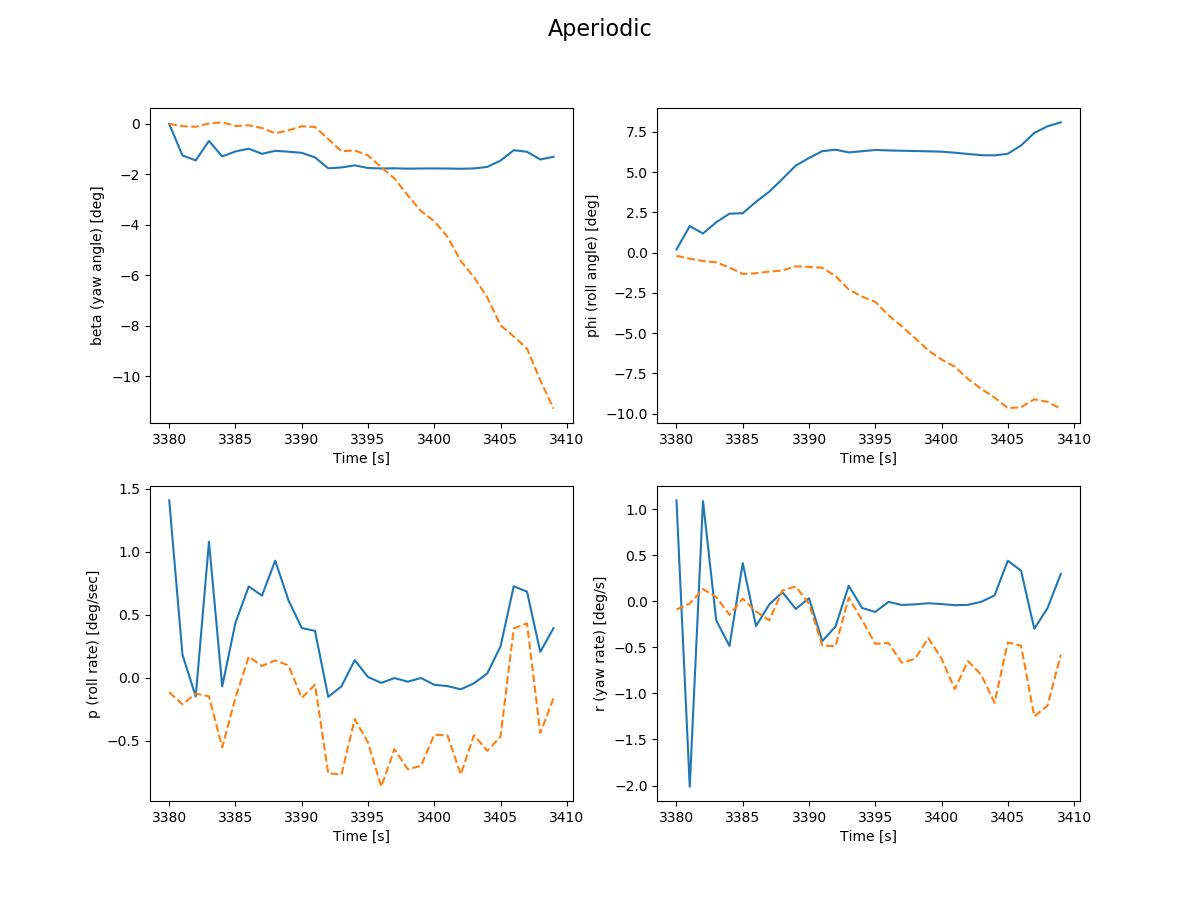
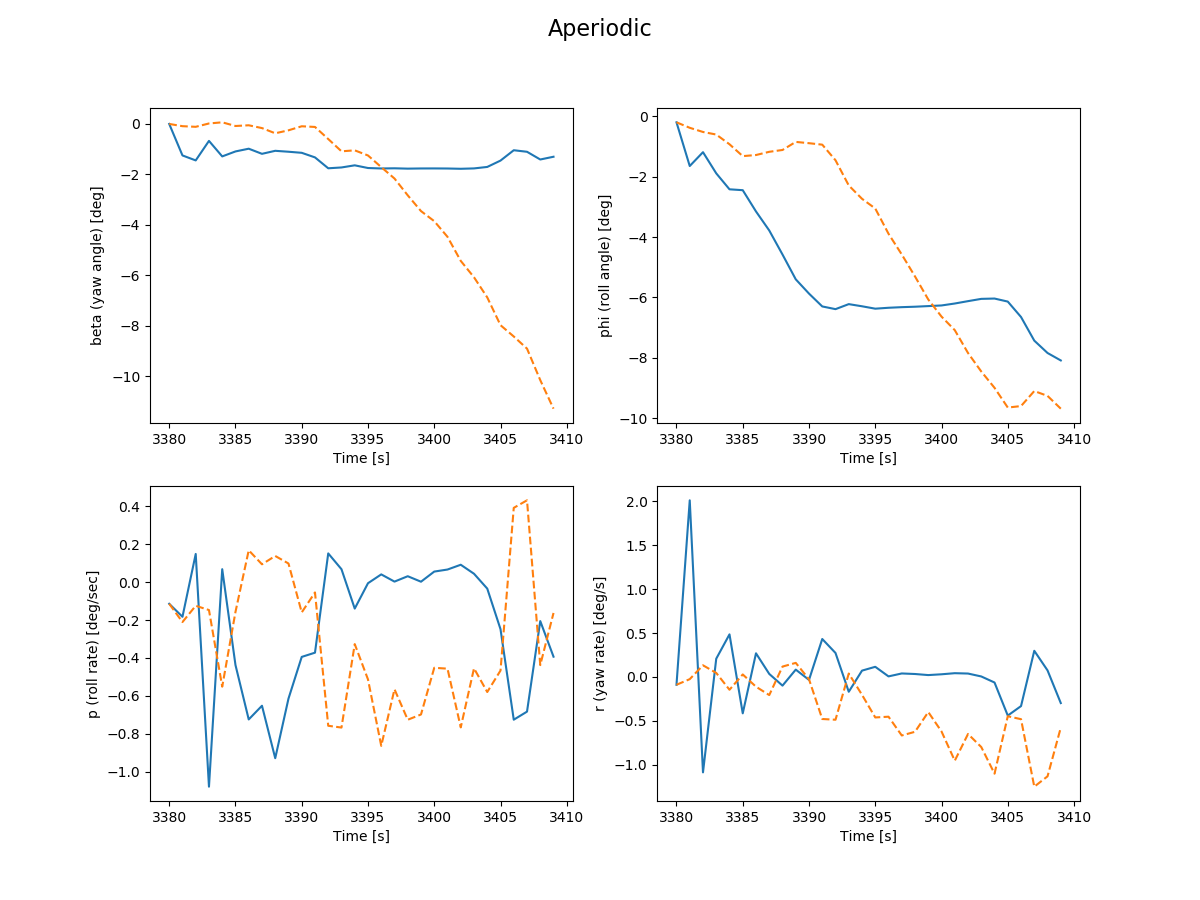
More graphs

diff --git a/src/data_processing/statespace/statespaceAsymmetrical.py b/src/data_processing/statespace/statespaceAsymmetrical.py
@@ -31,7 +31,7 @@ Cmde = -1.2312
 #Import data for given time step
 ts_tool = TimeSeriesTool()
 
-def maneuver_vals(time_start, length):
+def maneuver_vals(time_start, length,name):
     t = list(range(time_start, time_start + length))
     da = []
     dr = []
@@ -69,6 +69,26 @@ def maneuver_vals(time_start, length):
                    [p[0]],  # p
                    [r[0]]])  # r
 
+    charPlot = plt.figure(figsize=(12,9))
+    charPlot.suptitle('Characteristic Plot '+name, fontsize=20)
+
+    ax1 = charPlot.add_subplot(211)
+    ax1.plot(t, da, label='aileron deflection')
+    ax1.plot(t, dr, label = 'rudder deflection')
+    ax1.legend(loc='upper right',fontsize=14)
+    ax1.set_ylabel("da, dr [deg]", fontsize=20)
+
+    ax2 = charPlot.add_subplot(212)
+    ax2.plot(t, beta, label='beta')
+    ax2.plot(t, phi, label='phi')
+    ax2.plot(t, p, label='p')
+    ax2.plot(t, r, label='r')
+    ax2.legend(loc='upper right',fontsize=14)
+    ax2.set_xlabel("Time [s]", fontsize=20)
+    ax2.set_ylabel("beta, phi [deg], p, r [deg/s]", fontsize=20)
+
+    charPlot.savefig('CharacterPlot_'+name)
+
     return t, phi, p, r, da, dr, x0, V[0], beta
 
 def get_flight_conditions(t):
@@ -105,9 +125,9 @@ def L2error(x_exact: np.array, x_numerical: np.array):
     error = math.sqrt(error)/x_exact.shape[0]
     return error
 
-dutch = maneuver_vals(3060, 20)
-spiral = maneuver_vals(3300, 30)
-aperiodic = maneuver_vals(3380, 30)
+dutch = maneuver_vals(3060, 20, 'Dutch Roll')
+spiral = maneuver_vals(3305, 30, 'Spiral')
+aperiodic = maneuver_vals(3380, 30, 'Aperiodic')
 
 g = 9.80665
 
@@ -135,15 +155,15 @@ C1 = np.array([[(CYbdot - 2.0*mub)*b/V0, 0.0, 0.0, 0.0],
                [0.0, 0.0, -4.0*mub*KX2*b/V0, 4.0*mub*KXZ*b/V0],
                [Cnbdot*b/V0, 0.0, 4.0*mub*KXZ*b/V0, -4.0*mub*KZ2*b/V0]])
 
-C2 = np.array([[CYb, CL, CYp, (CYr - 4.0*mub)], 
-               [0.0, 0.0, 1.0, 0.0], 
-               [Clb, 0.0, Clp, Clr], 
-               [Cnb, 0.0, Cnp, Cnr] ])
+C2 = np.array([[-CYb, -CL, -CYp, -(CYr - 4.0*mub)],
+               [0.0, 0.0, -1.0, 0.0],
+               [-Clb, 0.0, -Clp, -Clr],
+               [-Cnb, 0.0, -Cnp, -Cnr] ])
 
-C3 = np.array([[CYda, CYdr],
+C3 = np.array([[-CYda, -CYdr],
                [0.0, 0.0],
-               [Clda, Cldr],
-               [Cnda, Cndr]])
+               [-Clda, -Cldr],
+               [-Cnda, -Cndr]])
 
 #x' = A*x + B*u
 #y  = C*x + D*u
@@ -151,8 +171,8 @@ C3 = np.array([[CYda, CYdr],
 # now u = [da]
 #         [dr]
 
-A = -np.matmul(np.linalg.inv(C1), C2)
-B = -np.matmul(np.linalg.inv(C1), C3)
+A = np.matmul(np.linalg.inv(C1), C2)
+B = np.matmul(np.linalg.inv(C1), C3)
 C = np.identity(4) #y = x, meaning we output the state
 D = np.array([[0.0, 0.0], [0.0, 0.0], [0.0, 0.0], [0.0, 0.0]])
 
@@ -176,9 +196,12 @@ u = np.array([dutch[4],
 t, y, x = control.forced_response(system, dutch[0], u, dutch[6], transpose=False)
 
 #Change dimensionless pb/(2V) and rb/(2V) to p and r
-y[1, :] = -y[1, :]
-y[2, :] = -2*abs(V0)*y[2, :]/b
-y[3, :] = -2*abs(V0)*y[3, :]/b
+# y[1, :] = -y[1, :]
+y[2, :] = 2*abs(V0)*y[2, :]/b
+y[3, :] = 2*abs(V0)*y[3, :]/b
+
+y[2, 0] = dutch[2][0]
+y[3, 0] = dutch[3][0]
 
 control.damp(system, doprint=True)
 
@@ -232,7 +255,7 @@ print(avg_dutch_error)
 
 V0 = spiral[7]
 
-mub, muc, m, h, rho = get_flight_conditions(3300)
+mub, muc, m, h, rho = get_flight_conditions(3305)
 mub = float(mub[0])
 muc = float(muc[0])
 m = float(m[0])
@@ -249,15 +272,15 @@ C1 = np.array([[(CYbdot - 2.0*mub)*b/V0, 0.0, 0.0, 0.0],
                [0.0, 0.0, -4.0*mub*KX2*b/V0, 4.0*mub*KXZ*b/V0],
                [Cnbdot*b/V0, 0.0, 4.0*mub*KXZ*b/V0, -4.0*mub*KZ2*b/V0]])
 
-C2 = np.array([[CYb, CL, CYp, (CYr - 4.0*mub)],
-               [0.0, 0.0, 1.0, 0.0],
-               [Clb, 0.0, Clp, Clr],
-               [Cnb, 0.0, Cnp, Cnr] ])
+C2 = np.array([[-CYb, -CL, -CYp, -(CYr - 4.0*mub)],
+               [0.0, 0.0, -1.0, 0.0],
+               [-Clb, 0.0, -Clp, -Clr],
+               [-Cnb, 0.0, -Cnp, -Cnr] ])
 
-C3 = np.array([[CYda, CYdr],
+C3 = np.array([[-CYda, -CYdr],
                [0.0, 0.0],
-               [Clda, Cldr],
-               [Cnda, Cndr]])
+               [-Clda, -Cldr],
+               [-Cnda, -Cndr]])
 
 #x' = A*x + B*u
 #y  = C*x + D*u
@@ -265,8 +288,8 @@ C3 = np.array([[CYda, CYdr],
 # now u = [da]
 #         [dr]
 
-A = -np.matmul(np.linalg.inv(C1), C2)
-B = -np.matmul(np.linalg.inv(C1), C3)
+A = np.matmul(np.linalg.inv(C1), C2)
+B = np.matmul(np.linalg.inv(C1), C3)
 C = np.identity(4) #y = x, meaning we output the state
 D = np.array([[0.0, 0.0], [0.0, 0.0], [0.0, 0.0], [0.0, 0.0]])
 
@@ -290,9 +313,9 @@ u = np.array([spiral[4],
 t, y, x = control.forced_response(system, spiral[0], u, spiral[6], transpose=False)
 
 #Change dimensionless pb/(2V) and rb/(2V) to p and r
-y[1, :] = -y[1, :]
-y[2, :] = -2*abs(V0)*y[2, :]/b
-y[3, :] = -2*abs(V0)*y[3, :]/b
+# y[1, :] = -y[1, :]
+y[2, :] = 2*abs(V0)*y[2, :]/b
+y[3, :] = 2*abs(V0)*y[3, :]/b
 
 control.damp(system, doprint=True)
 
@@ -363,15 +386,15 @@ C1 = np.array([[(CYbdot - 2.0*mub)*b/V0, 0.0, 0.0, 0.0],
                [0.0, 0.0, -4.0*mub*KX2*b/V0, 4.0*mub*KXZ*b/V0],
                [Cnbdot*b/V0, 0.0, 4.0*mub*KXZ*b/V0, -4.0*mub*KZ2*b/V0]])
 
-C2 = np.array([[CYb, CL, CYp, (CYr - 4.0*mub)],
-               [0.0, 0.0, 1.0, 0.0],
-               [Clb, 0.0, Clp, Clr],
-               [Cnb, 0.0, Cnp, Cnr] ])
+C2 = np.array([[-CYb, -CL, -CYp, -(CYr - 4.0*mub)],
+               [0.0, 0.0, -1.0, 0.0],
+               [-Clb, 0.0, -Clp, -Clr],
+               [-Cnb, 0.0, -Cnp, -Cnr] ])
 
-C3 = np.array([[CYda, CYdr],
+C3 = np.array([[-CYda, -CYdr],
                [0.0, 0.0],
-               [Clda, Cldr],
-               [Cnda, Cndr]])
+               [-Clda, -Cldr],
+               [-Cnda, -Cndr]])
 
 #x' = A*x + B*u
 #y  = C*x + D*u
@@ -379,8 +402,8 @@ C3 = np.array([[CYda, CYdr],
 # now u = [da]
 #         [dr]
 
-A = -np.matmul(np.linalg.inv(C1), C2)
-B = -np.matmul(np.linalg.inv(C1), C3)
+A = np.matmul(np.linalg.inv(C1), C2)
+B = np.matmul(np.linalg.inv(C1), C3)
 C = np.identity(4) #y = x, meaning we output the state
 D = np.array([[0.0, 0.0], [0.0, 0.0], [0.0, 0.0], [0.0, 0.0]])
 
@@ -404,9 +427,12 @@ u = np.array([aperiodic[4],
 t, y, x = control.forced_response(system, aperiodic[0], u, aperiodic[6], transpose=False)
 
 #Change dimensionless pb/(2V) and rb/(2V) to p and r
-y[1, :] = -y[1, :]
-y[2, :] = -2*abs(V0)*y[2, :]/b
-y[3, :] = -2*abs(V0)*y[3, :]/b
+# y[1, :] = -y[1, :]
+y[2, :] = 2*abs(V0)*y[2, :]/b
+y[3, :] = 2*abs(V0)*y[3, :]/b
+
+y[2, 0] = aperiodic[2][0]
+y[3, 0] = aperiodic[3][0]
 
 control.damp(system, doprint=True)
 

diff --git a/src/data_processing/statespace/statespace.py b/src/data_processing/statespace/statespace.py
@@ -36,7 +36,7 @@ Cmde = -1.2312
 
 #Import data for given time step
 ts_tool = TimeSeriesTool()
-def maneuver_vals(time_start, time_length):
+def maneuver_vals(time_start, time_length, name):
     t = list(range(time_start,time_start+time_length))
     de = []
     aoa = []
@@ -71,6 +71,25 @@ def maneuver_vals(time_start, time_length):
                    [0.0],
                    [pitch[0]],
                    [q[0]]])
+
+    charPlot = plt.figure(figsize=(12,9))
+    charPlot.suptitle('Characteristic Plot '+name, fontsize=20)
+
+    ax1 = charPlot.add_subplot(211)
+    ax1.plot(t, de, label='elevator deflection')
+    ax1.legend(loc='upper right', fontsize=14)
+    ax1.set_ylabel("de [deg]", fontsize=20)
+
+    ax2 = charPlot.add_subplot(212)
+    ax2.plot(t, u, label='u')
+    ax2.plot(t, w, label='w')
+    ax2.plot(t, pitch, label='pitch')
+    ax2.plot(t, q, label='q')
+    ax2.legend(loc='upper right', fontsize=14)
+    ax2.set_xlabel("Time [s]", fontsize=20)
+    ax2.set_ylabel("u, w [m/s], pitch [deg], q [deg/s]", fontsize=20)
+
+    charPlot.savefig('CharacterPlot_'+name)
 
     return t, de, aoa, pitch, q, x0, u, V[0], w
 
@@ -108,8 +127,8 @@ def L2error(x_exact: np.array, x_numerical: np.array):
     error = math.sqrt(error)/x_exact.shape[0]
     return error
 
-phugoid = maneuver_vals(2836, 200)
-short = maneuver_vals(2760, 50)
+phugoid = maneuver_vals(2836, 200, 'Phugoid')
+short = maneuver_vals(2760, 50, 'Short')
 
 g = 9.80665
 
